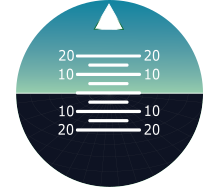
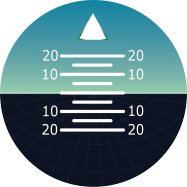
Indicator Page operasyonu bitmiştir

diff --git a/uifolder/ui_IndicatorsPage.py b/uifolder/ui_IndicatorsPage.py
@@ -9,8 +9,8 @@
 ################################################################################
 
 from PySide6.QtCore import (QCoreApplication, QDate, QDateTime, QLocale,
-    QMetaObject, QObject, QPoint, QRect,
-    QSize, QTime, QUrl, Qt)
+                            QMetaObject, QObject, QPoint, QRect,
+                            QSize, QTime, QUrl, Qt, Property)
 from PySide6.QtGui import (QBrush, QColor, QConicalGradient, QCursor,
     QFont, QFontDatabase, QGradient, QIcon,
     QImage, QKeySequence, QLinearGradient, QPainter,
@@ -74,7 +74,7 @@ class Ui_IndicatorsPage(object):
         self.vspeed_label.setScaledContents(True)
         self.vspeed_label.setAlignment(Qt.AlignCenter)
         self.vspeed_label.setIndent(-1)
-        self.vspeed_needle = QLabel(self.Vspeedometer)
+        self.vspeed_needle = RotatingLabel(u"uifolder/assets/needle.png", self.Vspeedometer)
         self.vspeed_needle.setObjectName(u"vspeed_needle")
         self.vspeed_needle.setGeometry(QRect(20, 8, 256, 256))
         self.vspeed_needle.setStyleSheet(u"background-color: transparent")
@@ -128,11 +128,10 @@ class Ui_IndicatorsPage(object):
         self.AttitudeIndicator.setMaximumSize(QSize(300, 16777215))
         self.AttitudeIndicator.setFrameShape(QFrame.StyledPanel)
         self.AttitudeIndicator.setFrameShadow(QFrame.Raised)
-        self.attitude_middle = QLabel(self.AttitudeIndicator)
+        self.attitude_middle = RotatingLabel(u"uifolder/assets/gyrocircle.png", self.AttitudeIndicator)
         self.attitude_middle.setObjectName(u"attitude_middle")
-        self.attitude_middle.setGeometry(QRect(20, 8, 256, 256))
+        self.attitude_middle.setGeometry(QRect(55, 41, 187, 187))
         self.attitude_middle.setStyleSheet(u"background-color: transparent")
-        self.attitude_middle.setPixmap(QPixmap(u":/needles/assets/gyrocircle.png"))
         self.attitude_middle.setScaledContents(False)
         self.attitude_middle.setAlignment(Qt.AlignCenter)
         self.attitude_middle.setWordWrap(False)
@@ -179,7 +178,7 @@ class Ui_IndicatorsPage(object):
         self.direction_label.setScaledContents(True)
         self.direction_label.setAlignment(Qt.AlignCenter)
         self.direction_label.setIndent(-1)
-        self.direction_needle = QLabel(self.Direction)
+        self.direction_needle = RotatingLabel(u"uifolder/assets/plane.png", self.Direction)
         self.direction_needle.setObjectName(u"direction_needle")
         self.direction_needle.setGeometry(QRect(20, 8, 252, 252))
         self.direction_needle.setStyleSheet(u"background-color: transparent")
@@ -213,7 +212,7 @@ class Ui_IndicatorsPage(object):
         self.speed_label.setScaledContents(True)
         self.speed_label.setAlignment(Qt.AlignCenter)
         self.speed_label.setIndent(-1)
-        self.speed_needle = QLabel(self.Speedometer)
+        self.speed_needle = RotatingLabel(u"uifolder/assets/needle.png", self.Speedometer)
         self.speed_needle.setObjectName(u"speed_needle")
         self.speed_needle.setGeometry(QRect(20, 8, 256, 256))
         self.speed_needle.setStyleSheet(u"background-color: transparent")
@@ -310,4 +309,28 @@ class Ui_IndicatorsPage(object):
         self.battery_label.setText(QCoreApplication.translate("IndicatorsPage", u"Battery:", None))
         self.flight_mode_label.setText(QCoreApplication.translate("IndicatorsPage", u"Flight Mode:", None))
     # retranslateUi
+
+class RotatingLabel(QLabel):
+        def __init__(self, image, parent=None):
+                super().__init__(parent)
+                self._angle = 0
+                self.image = image
+
+        def getAngle(self):
+                return self._angle
+
+        def setAngle(self, angle):
+                self._angle = angle
+                self.update()
+
+        angle = Property(int, getAngle, setAngle)
+
+        def paintEvent(self, event):
+                painter = QPainter(self)
+                painter.setRenderHint(QPainter.Antialiasing)
+                painter.setRenderHint(QPainter.SmoothPixmapTransform)
+                painter.translate(self.width() / 2, self.height()/2)
+                painter.rotate(self._angle)
+                pixmap = QPixmap(self.image).scaled(self.width(), self.height(), Qt.KeepAspectRatio, Qt.SmoothTransformation)
+                painter.drawPixmap(-self.width()/2, -self.height()/2, pixmap)
 

diff --git a/IndicatorsPage.py b/IndicatorsPage.py
@@ -1,13 +1,9 @@
 import math
 import sys
 
-from PySide6 import QtGui
-from PySide6.QtCore import Qt
+from PySide6.QtCore import Qt, QPropertyAnimation, QPoint
 from PySide6.QtGui import QIcon
-from PySide6.QtWidgets import QWidget, QLabel, QApplication, QPushButton
-
-from PIL import Image
-from PIL.ImageQt import ImageQt
+from PySide6.QtWidgets import QWidget, QApplication, QPushButton
 
 from uifolder import Ui_IndicatorsPage
 
@@ -16,11 +12,6 @@ class IndicatorsPage(QWidget, Ui_IndicatorsPage):
     def __init__(self):
         super().__init__()
         self.setupUi(self)
-
-        # Load images
-        self.needle_image = Image.open(u"uifolder/assets/needle.png")
-        self.attitude_image = Image.open(u"uifolder/assets/gyrocircle.png")
-        self.needle_plane_image = Image.open(u"uifolder/assets/plane.png")
 
         # Indicators' values
         self.maxSpeed = 22
@@ -37,18 +28,18 @@ class IndicatorsPage(QWidget, Ui_IndicatorsPage):
         # A variable that holds if the widget is child of the main window or not
         self.isAttached = True
 
-    def rotate_needle(self, angle, needle: QLabel):
-        if needle == self.attitude_middle:
-            image = self.attitude_image
-        elif needle == self.direction_needle:
-            image = self.needle_plane_image
-        else:
-            image = self.needle_image
-        rotated_needle = QtGui.QPixmap.fromImage(ImageQt(image.rotate(-int(angle))))
-        needle.setPixmap(rotated_needle)
+    def rotate_needle(self, angle, needle):
+        rotation_animation = QPropertyAnimation(needle, b"angle", parent=self)
+        rotation_animation.setEndValue(angle)
+        rotation_animation.setDuration(300)
+        rotation_animation.start()
 
     def setAttitude(self, pitch, roll):
-        self.attitude_middle.move(self.attitude_middle.x() + math.sin(roll)*pitch, self.attitude_middle.y() + math.cos(roll)*pitch)
+        pitch = pitch*2 - 2
+        move_animation = QPropertyAnimation(self.attitude_middle, b"pos", parent=self)
+        move_animation.setEndValue(QPoint(55-math.sin(roll)*pitch, 43+math.cos(roll)*pitch))
+        move_animation.setDuration(300)
+        move_animation.start()
         self.rotate_needle(roll, self.attitude_middle)
 
     def setSpeed(self, speed):
@@ -79,12 +70,43 @@ class IndicatorsPage(QWidget, Ui_IndicatorsPage):
         elif altitude > 120:
             altitude = -altitude
         altitude = -500 / 126 * altitude + 510
-        self.altitude_needle.setGeometry(self.altitude_needle.x(), altitude, self.altitude_needle.width(),
-                                         self.altitude_needle.height())
+
+        move_animation = QPropertyAnimation(self.altitude_needle, b"pos", parent=self)
+        move_animation.setEndValue(QPoint(self.altitude_needle.x(), altitude))
+        move_animation.setDuration(500)
+        move_animation.start()
+
 
     def resizeEvent(self, event):
         self.btn_AllocateWidget.move(self.width() - self.btn_AllocateWidget.width(), 0)
         super().resizeEvent(event)
+
+
+# class RotatingLabel(QLabel):
+#     def __init__(self, image, parent=None):
+#         super().__init__(parent)
+#         self.setMinimumSize(200,200)
+#         self._angle = 0
+#         self.image = image
+#
+#     def getAngle(self):
+#         return self._angle
+#
+#     def setAngle(self, angle):
+#         self._angle = angle
+#         self.update()
+#
+#     angle = Property(int, getAngle, setAngle)
+#
+#     def paintEvent(self, event):
+#         painter = QPainter(self)
+#         painter.setRenderHint(QPainter.Antialiasing)
+#         painter.setRenderHint(QPainter.SmoothPixmapTransform)
+#         painter.translate(self.width() / 2, self.height()/2)
+#         painter.rotate(self._angle)
+#         pixmap = QPixmap(self.image).scaled(self.width(), self.height(), Qt.KeepAspectRatio, Qt.SmoothTransformation)
+#         painter.drawPixmap(-self.width()/2, -self.height()/2, pixmap)
+
 
 if __name__ == "__main__":
     app = QApplication(sys.argv)

diff --git a/MainWindow.py b/MainWindow.py
@@ -156,6 +156,15 @@ class MainWindow(QMainWindow, Ui_MainWindow):
             self.animation.setEndValue(widthExtended)
             self.animation.setEasingCurve(QEasingCurve.InOutQuart)
             self.animation.start()
+
+            animation = QPropertyAnimation(button, b"geometry")
+            animation.setDuration(2000)
+            animation.setStartValue(button.geometry())
+            animation.setEndValue(button.geometry())
+            animation.setEasingCurve(QEasingCurve.InOutQuad)
+
+            # Start the animation
+            animation.start()
         else:
             self.disabledbutton.setDisabled(False)
             self.disabledbutton = button
@@ -183,6 +192,7 @@ class MainWindow(QMainWindow, Ui_MainWindow):
 
     def AllocateWidget(self, parent, child):
         if child.isAttached:
+            self.stackedWidget.setCurrentWidget(self.homepage)
             parent.layout().removeWidget(child)
             self.new_window = QMainWindow(styleSheet="background-color: rgb(44, 49, 60);" )
             self.new_window.setWindowFlags(Qt.Window | Qt.WindowMinimizeButtonHint | Qt.WindowMaximizeButtonHint)
@@ -196,6 +206,7 @@ class MainWindow(QMainWindow, Ui_MainWindow):
             self.new_window.close()
             child.btn_AllocateWidget.setIcon(QIcon("uifolder/assets/icons/16x16/cil-arrow-top.png"))
             child.isAttached = True
+
 
 if __name__ == "__main__":
     app = QApplication(sys.argv)

diff --git a/Connection.py b/Connection.py
@@ -1,4 +1,5 @@
 import math
+import time
 
 from PySide6.QtCore import QThread, Signal
 from PySide6.QtGui import QIcon
@@ -79,7 +80,7 @@ class ConnectionThread(QThread):
 
         # Wait for the vehicle to be armed
         while not self.vehicle.armed:
-            self.sleep(1)
+            self.wait(1)
 
         # Take off to target altitude
         self.vehicle.simple_takeoff(target_altitude)
